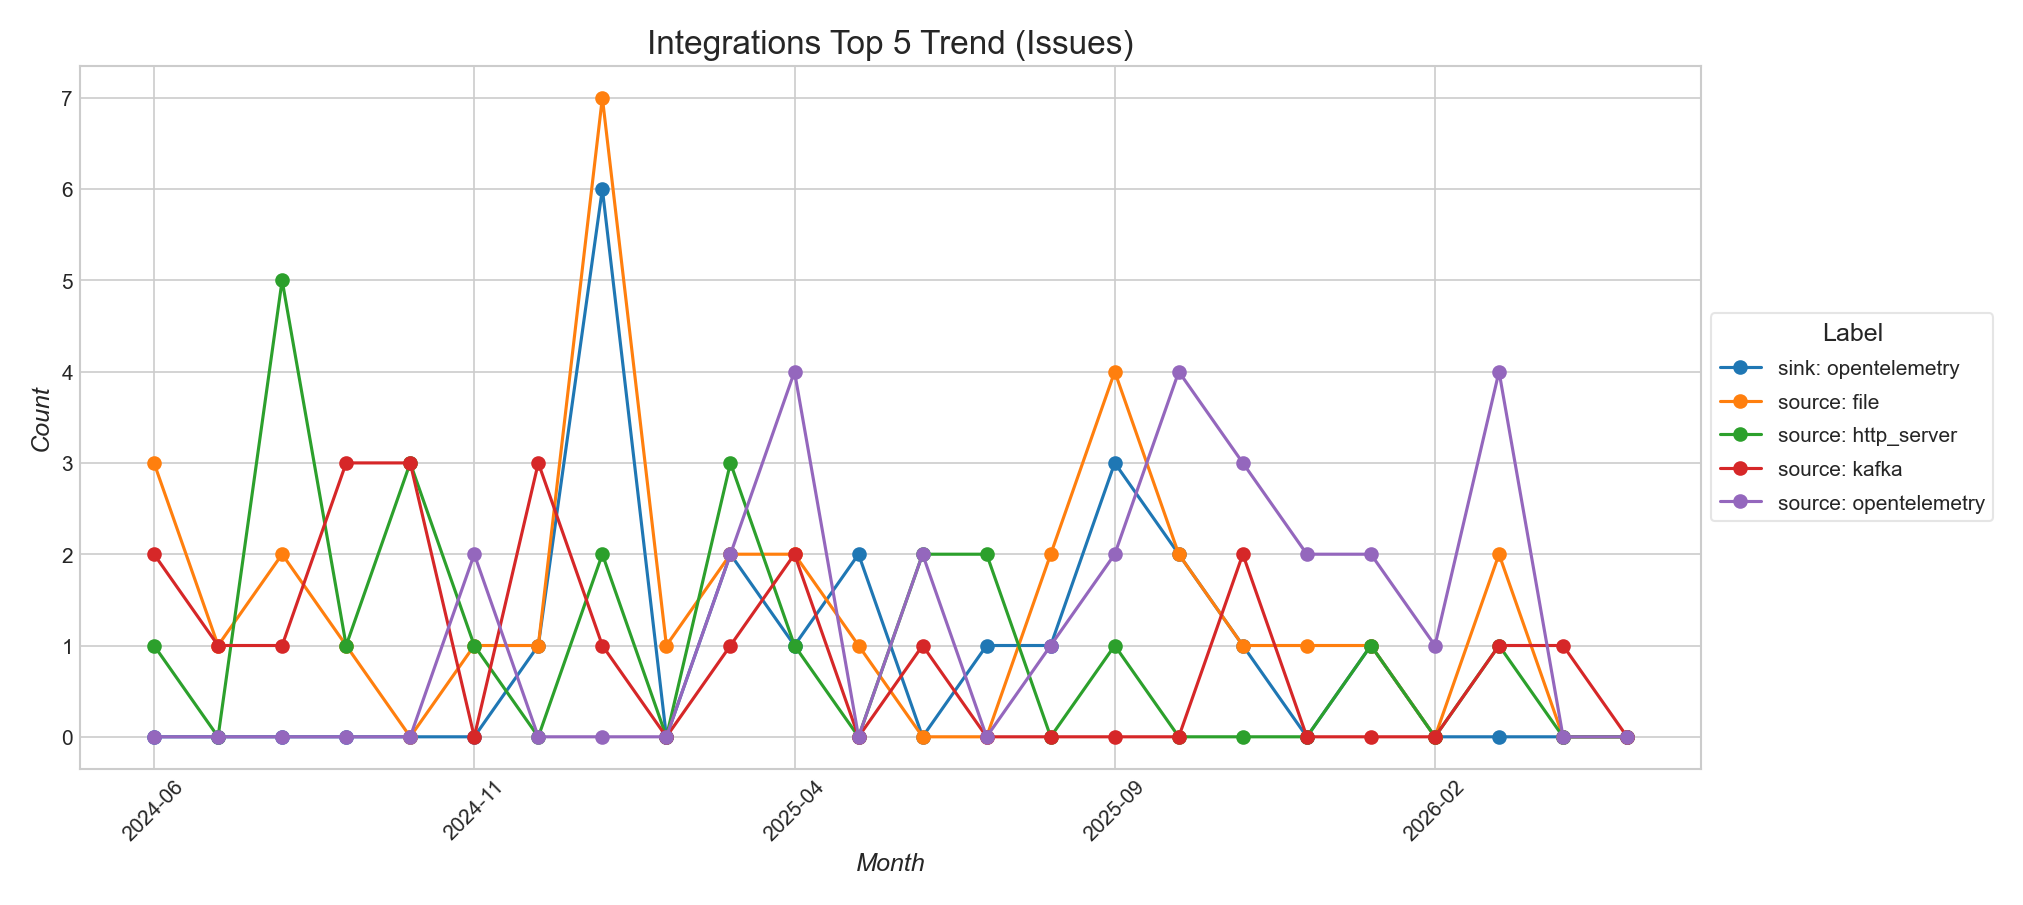
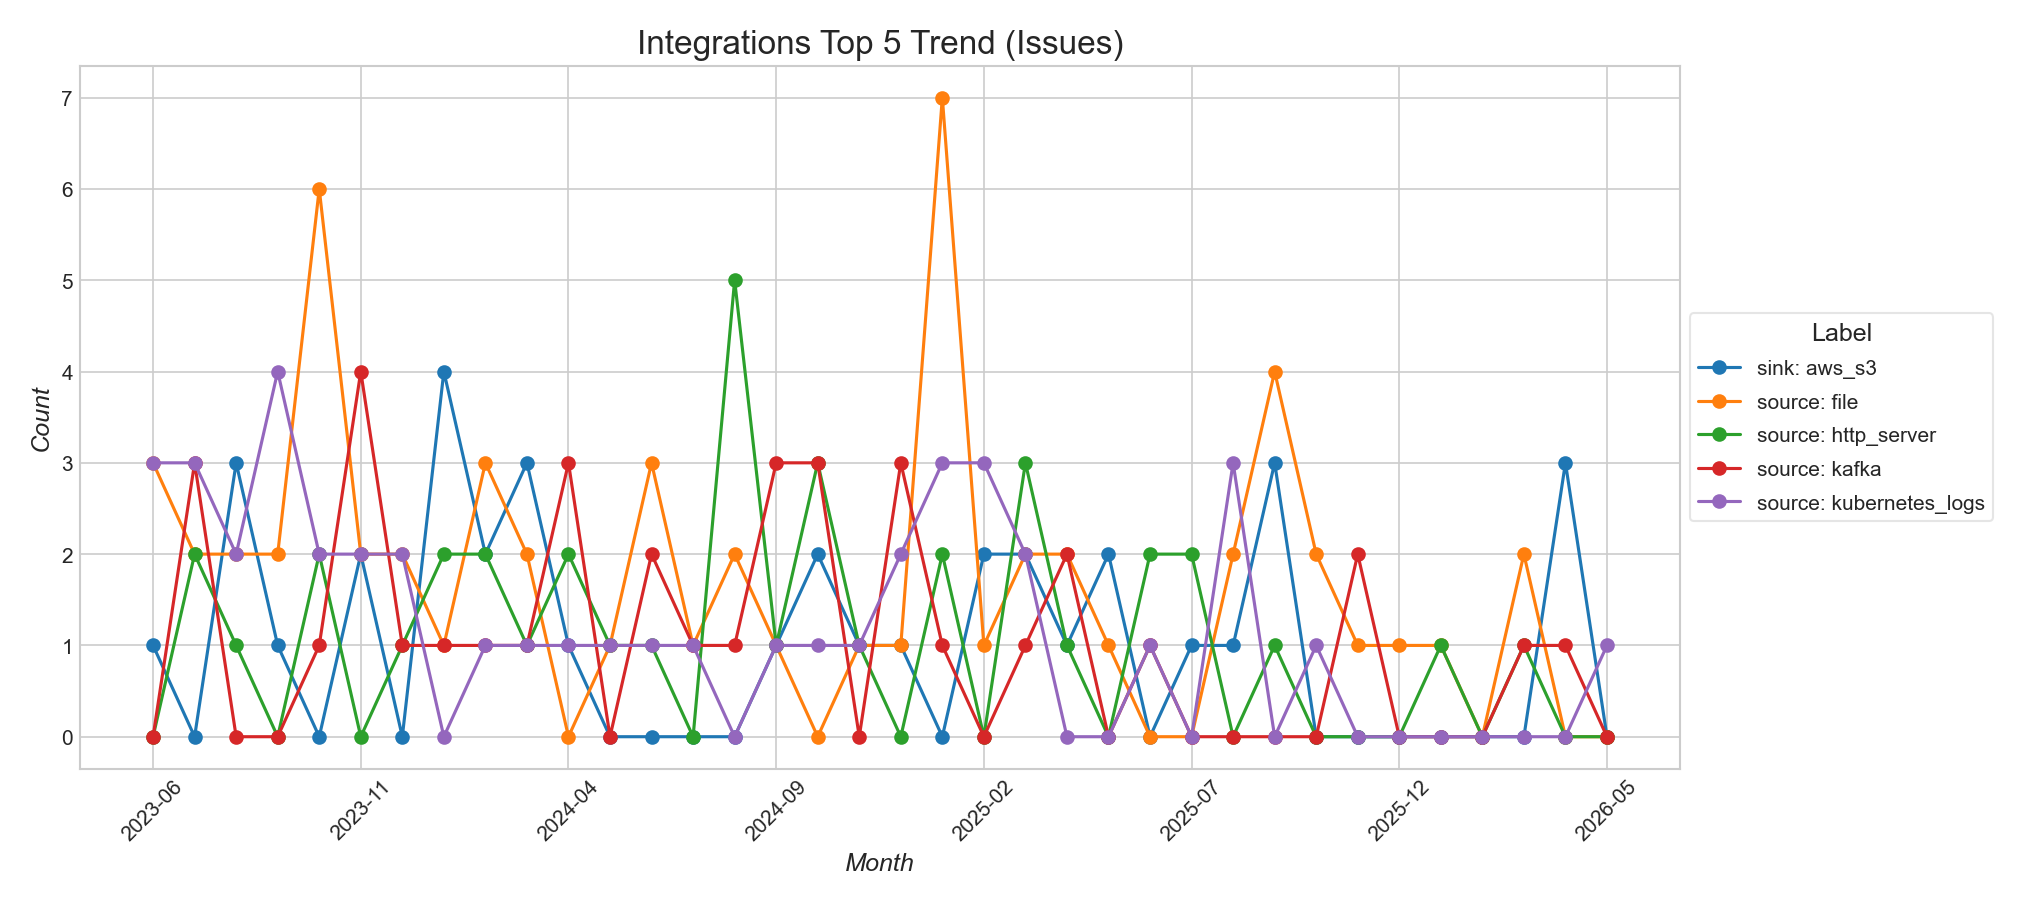
Add --window flag to plot.py; normalize all charts to 3y
--window Ny/Nm computes --start relative to today, so charts
stay current without hardcoded dates. Updated README and
regenerated all 4 repos with --window 3y.

diff --git a/scripts/util/plot.py b/scripts/util/plot.py
@@ -2,6 +2,8 @@ import argparse
 import hashlib
 import logging
 import os
+import re
+from datetime import date
 from pathlib import Path
 
 import matplotlib.pyplot as plt
@@ -174,6 +176,10 @@ def parse_args():
         help="Only include data from this YYYY-MM date forward",
     )
     parser.add_argument(
+        "--window",
+        help="Lookback window relative to today, e.g. 3y or 18m. Computes --start automatically; ignored if --start is also given.",
+    )
+    parser.add_argument(
         "--exclude-labels",
         type=str,
         help="Comma-separated list of labels to exclude from the various charts",
@@ -192,6 +198,16 @@ def parse_args():
         args.exclude_labels = labels if labels else None
     else:
         args.exclude_labels = None
+
+    if args.window and not args.start:
+        m = re.fullmatch(r"(\d+)(y|m)", args.window.strip().lower())
+        if not m:
+            parser.error("--window must be like 3y or 18m")
+        amount, unit = int(m.group(1)), m.group(2)
+        months = amount * 12 if unit == "y" else amount
+        today = date.today()
+        total_months = today.year * 12 + today.month - 1 - months
+        args.start = f"{total_months // 12}-{total_months % 12 + 1:02d}"
 
     return args
 

diff --git a/README.md b/README.md
@@ -91,7 +91,7 @@ github-tools generate-all \
 # Charts (still Python). --exclude-labels hides those label series from
 # label-frequency charts only; the underlying PR/issue counts are unaffected.
 python -m scripts.util.plot --env-file vector.env --input-dir out/summaries \
-  --start $(date -d "$(date +%Y-%m-01) -12 months" +%Y-%m) \
+  --window 3y \
   --exclude-labels "no-changelog,meta: awaiting author"
 ```
 
